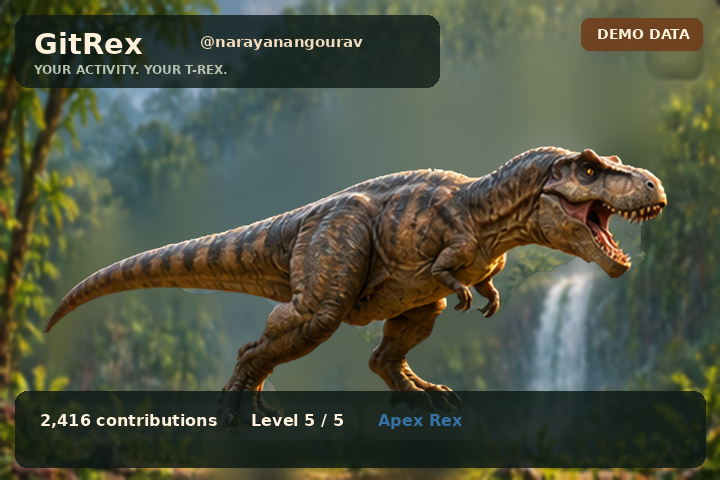
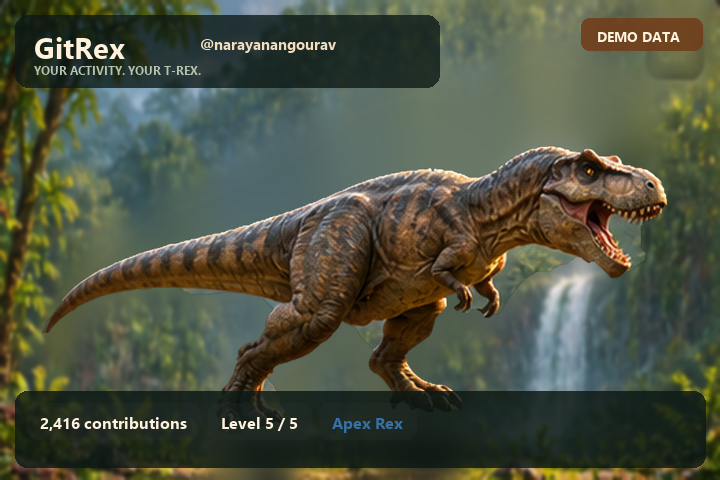
fix: complete GitRex publishing workflow

Changed region(s): [[0.0611, 0.8438, 0.6417, 0.9062], [0.0306, 0.0625, 0.5194, 0.1562], [0.825, 0.0625, 0.9778, 0.0938]]

diff --git a/docs/PUBLISHING.md b/docs/PUBLISHING.md
@@ -21,10 +21,12 @@ Make sure the login is the account you intend to publish from.
 
 ## 2. Initialize the **separate** GitRex repository
 
+The published repository is `narayanangourav/GitRex` on the `master` branch. When continuing this existing checkout, keep using that repository and branch; do not initialize another repository or create a duplicate. These commands are only for a new, separate project folder:
+
 Open PowerShell inside the extracted project folder:
 
 ```powershell
-git init -b main
+git init -b master
 git add .
 git diff --cached --name-only
 git diff --cached --check
@@ -44,18 +46,18 @@ gh repo create narayanangourav/GitRex --public --source=. --remote=origin --push
 
 Navigate to `GitRex` → `Settings` → `Actions` → `General` → `Workflow permissions`. Permit the workflow to write repository content if it needs to commit new GIFs. The workflow is limited to `contents: write` and does not require a personal token in repository secrets. **Consider branch protections, organization policy and least privileges before enabling writes.**
 
-Run `Actions` → `GitRex profile evolution` → `Run workflow` on `main`.
+Run `Actions` → `GitRex profile evolution` → `Run workflow` on `master`.
 
 Check that the render job successfully executes and changes `output/trex.gif`, `output/trex.png` and `output/summary.json` to your real public activity. The workflow is scheduled nightly and may be delayed or disabled after inactivity by GitHub.
 
 ## 4. Embed the animation in your profile
 
-In the separate **profile** repository called `narayanangourav/narayanangourav`, edit its `README.md`:
+After the first successful live workflow run, add the animation to the separate **profile** repository called `narayanangourav/narayanangourav`. Append this section to its existing `README.md`; preserve the other profile content:
 
 ```markdown
 ## 🦖 My GitRex
 
-![GitRex evolution](https://raw.githubusercontent.com/narayanangourav/GitRex/main/output/trex.gif)
+![GitRex evolution](https://raw.githubusercontent.com/narayanangourav/GitRex/master/output/trex.gif)
 
 [Source](https://github.com/narayanangourav/GitRex)
 ```
@@ -68,4 +70,4 @@ Verify the GIF loads on `https://github.com/narayanangourav`. Do not claim it sh
 - Enable Dependabot alerts and secret scanning if available.
 - Do not commit an authenticated snapshot or a token, even temporarily; removing them in a later commit does not remove them from Git history.
 - Read GitHub Actions billing and permissions settings before enabling optional resources.
-- Publish a GitHub release from the reviewed commit, not from an unverified ZIP containing demos.
+- Publish the `v2.0.0` GitHub release from the reviewed live-output commit, not from an unverified ZIP containing demos.

diff --git a/README.md b/README.md
@@ -64,7 +64,7 @@ This project is designed for **a separate `GitRex` repository**. The daily workf
 ```markdown
 ## My GitRex
 
-![My contribution-powered T-Rex](https://raw.githubusercontent.com/narayanangourav/GitRex/main/output/trex.gif)
+![My contribution-powered T-Rex](https://raw.githubusercontent.com/narayanangourav/GitRex/master/output/trex.gif)
 ```
 
 See **[docs/PUBLISHING.md](docs/PUBLISHING.md)** for copyright checks, Git setup, secure Actions settings and first-live-run verification. The workflow has not been run on your actual GitHub account from this environment.
